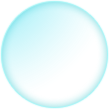
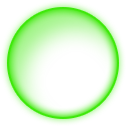
Ship Shield animations.

diff --git a/ABIMSIM/GameScene.m b/ABIMSIM/GameScene.m
@@ -13,6 +13,7 @@ static NSString* asteroidShieldCategoryName = @"asteroidShield";
 static NSString* goalCategoryName = @"goal";
 static NSString* levelNodeName = @"level";
 static NSString* powerUpShieldName = @"shield";
+static NSString* powerUpShieldRingName = @"shieldGlow";
 
 static NSString* shipImageSpriteName = @"shipImageSprite";
 static NSString* shipShieldSpriteName = @"shipShieldSprite";
@@ -64,12 +65,17 @@ static const uint32_t powerUpShieldCategory = 0x1 << 8;
 #define asteroidColorYella @"dbdb0b"
 #define asteroidColorPurple @"9e3dd1"
 
+//userData Keys
 #define orbitJoint @"orbitJoint"
 #define moonsArray @"moonsArray"
 #define planetNumber @"planetNumber"
 #define planetFlavorNumber @"planetFlavorNumber"
 #define asteroidShieldTag @"asteroidShieldTag"
 #define asteroidShieldPulseAnimationAction @"asteroidShieldPulseAnimationAction"
+#define powerUpShieldPulseAnimation @"powerUpShieldPulseAnimation"
+#define shipShieldOnAnimation @"shipShieldOnAnimation"
+#define shipShieldPopAnimation @"shipShieldPopAnimation"
+#define shipShieldImpactAnimation @"shipShieldImpactAnimation"
 
 #define asteroidShield0 6
 #define asteroidShield1 7
@@ -155,12 +161,22 @@ CGFloat DegreesToRadians(CGFloat degrees)
         shipImage.name = shipImageSpriteName;
         SKSpriteNode *shipShieldImage = [SKSpriteNode spriteNodeWithImageNamed:@"ShipShield"];
         shipShieldImage.name = shipShieldSpriteName;
+        shipShieldImage.alpha = 0;
         SKSpriteNode *ship = [SKSpriteNode spriteNodeWithColor:[UIColor clearColor] size:shipShieldImage.size];
         [ship addChild:shipImage];
         [ship addChild:shipShieldImage];
         ship.name = shipCategoryName;
         ship.position = CGPointMake(self.frame.size.width/4, ship.size.height*2);
         ship.zPosition = 1;
+        ship.userData = [NSMutableDictionary dictionary];
+        SKAction *shieldSetup = [SKAction customActionWithDuration:0 actionBlock:^(SKNode *node, CGFloat elapsedTime) {
+            node.alpha = 1;
+            node.scale = 0.71;
+        }];
+        SKAction *growAction = [SKAction scaleTo:1.1 duration:0.3];
+        SKAction *snapBack = [SKAction scaleTo:1.0 duration:0.1];
+        SKAction *sequence = [SKAction sequence:@[shieldSetup,growAction,snapBack]];
+        ship.userData[shipShieldOnAnimation] = sequence;
         
         spritesArrays = [NSMutableArray array];
         currentSpriteArray = [NSMutableArray array];
@@ -203,7 +219,6 @@ CGFloat DegreesToRadians(CGFloat degrees)
 //        [self addChild:warpBack2];
         [self addChild:ship];
         [self updateShipPhysics];
-
 //        [self addChild:warpFront];
 //        [self addChild:warpFront2];
 
@@ -667,6 +682,22 @@ CGFloat DegreesToRadians(CGFloat degrees)
             if (shieldHitPoints <= 0) {
                 hasShield = NO;
                 [self updateShipPhysics];
+            } else {
+                NSString *imageName = @"ShipShield_Impact";
+                SKSpriteNode *impactSprite = [SKSpriteNode spriteNodeWithImageNamed:imageName];
+                [[firstBody.node childNodeWithName:shipShieldSpriteName] addChild:impactSprite];
+                SKAction *fadeAway = [SKAction fadeAlphaTo:0 duration:0.5];
+                SKAction *remove = [SKAction customActionWithDuration:0 actionBlock:^(SKNode *node, CGFloat elapsedTime) {
+                    [node removeFromParent];
+                }];
+                SKAction *sequence = [SKAction sequence:@[fadeAway,remove]];
+                [impactSprite runAction:sequence];
+                CGPoint p1 = firstBody.node.position;
+                CGPoint p2 = secondBody.node.position;
+                
+                CGFloat f = [self pointPairToBearingDegrees:p1 secondPoint:p2] - 90;
+                impactSprite.zRotation = DegreesToRadians(f);
+
             }
         } else {
             shipHitPoints--;
@@ -947,6 +978,7 @@ CGFloat DegreesToRadians(CGFloat degrees)
         } else if ([sprite.name isEqual:powerUpShieldName]) {
             sprite.hidden = NO;
             [self addChild:sprite];
+            [sprite runAction:sprite.userData[powerUpShieldPulseAnimation]];
         }
     }
     if (currentLevel == 1) {
@@ -1050,7 +1082,21 @@ CGFloat DegreesToRadians(CGFloat degrees)
     shieldPowerUp.name = powerUpShieldName;
     shieldPowerUp.position = CGPointMake(self.size.width/2, 100);
     shieldPowerUp.zPosition = 1;
-
+    shieldPowerUp.userData = [NSMutableDictionary dictionary];
+    SKSpriteNode *glowSprite = [SKSpriteNode spriteNodeWithImageNamed:@"ShieldPowerUp_Animated"];
+    glowSprite.name = powerUpShieldRingName;
+    [shieldPowerUp addChild:glowSprite];
+    glowSprite.alpha = 0;
+    
+    SKAction *fadeIn = [SKAction fadeAlphaTo:1 duration:0.3];
+    SKAction *fadeOut = [SKAction fadeAlphaTo:0 duration:1.0];
+    SKAction *repeat = [SKAction repeatActionForever:[SKAction sequence:@[fadeIn,fadeOut]]];
+    
+    SKAction *animationAction = [SKAction customActionWithDuration:0 actionBlock:^(SKNode *node, CGFloat elapsedTime) {
+        [[node childNodeWithName:powerUpShieldRingName] runAction:repeat];
+    }];
+    shieldPowerUp.userData[powerUpShieldPulseAnimation] = animationAction;
+    
     return shieldPowerUp;
 }
 
@@ -1059,10 +1105,28 @@ CGFloat DegreesToRadians(CGFloat degrees)
     CGVector velocity = ship.physicsBody.velocity;
     float width = 40;
     if (hasShield) {
-        [ship childNodeWithName:shipShieldSpriteName].hidden = NO;
         width = ship.size.width;
+        if (currentLevel != 0) {
+            [[ship childNodeWithName:shipShieldSpriteName] runAction:ship.userData[shipShieldOnAnimation]];
+        } else {
+            [ship childNodeWithName:shipShieldSpriteName].alpha = 1;
+            [[ship childNodeWithName:shipShieldSpriteName] setScale:1];
+        }
     } else {
-        [ship childNodeWithName:shipShieldSpriteName].hidden = YES;
+        NSString *imageName = @"ShipShield_Pop";
+        float scale = 0.64;
+        float duration = 0.5;
+        SKSpriteNode *explosionSprite = [SKSpriteNode spriteNodeWithImageNamed:imageName];
+        [explosionSprite setScale:scale];
+        explosionSprite.zPosition = 10;
+        [ship addChild:explosionSprite];
+        SKAction *fadeAction = [SKAction fadeAlphaTo:0 duration:0.5];
+        SKAction *scaleAction = [SKAction scaleTo:1 duration:duration];
+        SKAction *groupAction = [SKAction group:@[fadeAction, scaleAction]];
+        [explosionSprite runAction:[SKAction sequence:@[groupAction, [SKAction customActionWithDuration:0 actionBlock:^(SKNode *node, CGFloat elapsedTime) {
+            [node removeFromParent];
+        }]]]];
+        [ship childNodeWithName:shipShieldSpriteName].alpha = 0;
     }
     ship.physicsBody = [SKPhysicsBody bodyWithCircleOfRadius:width/2];
     ship.physicsBody.friction = 0.0f;
